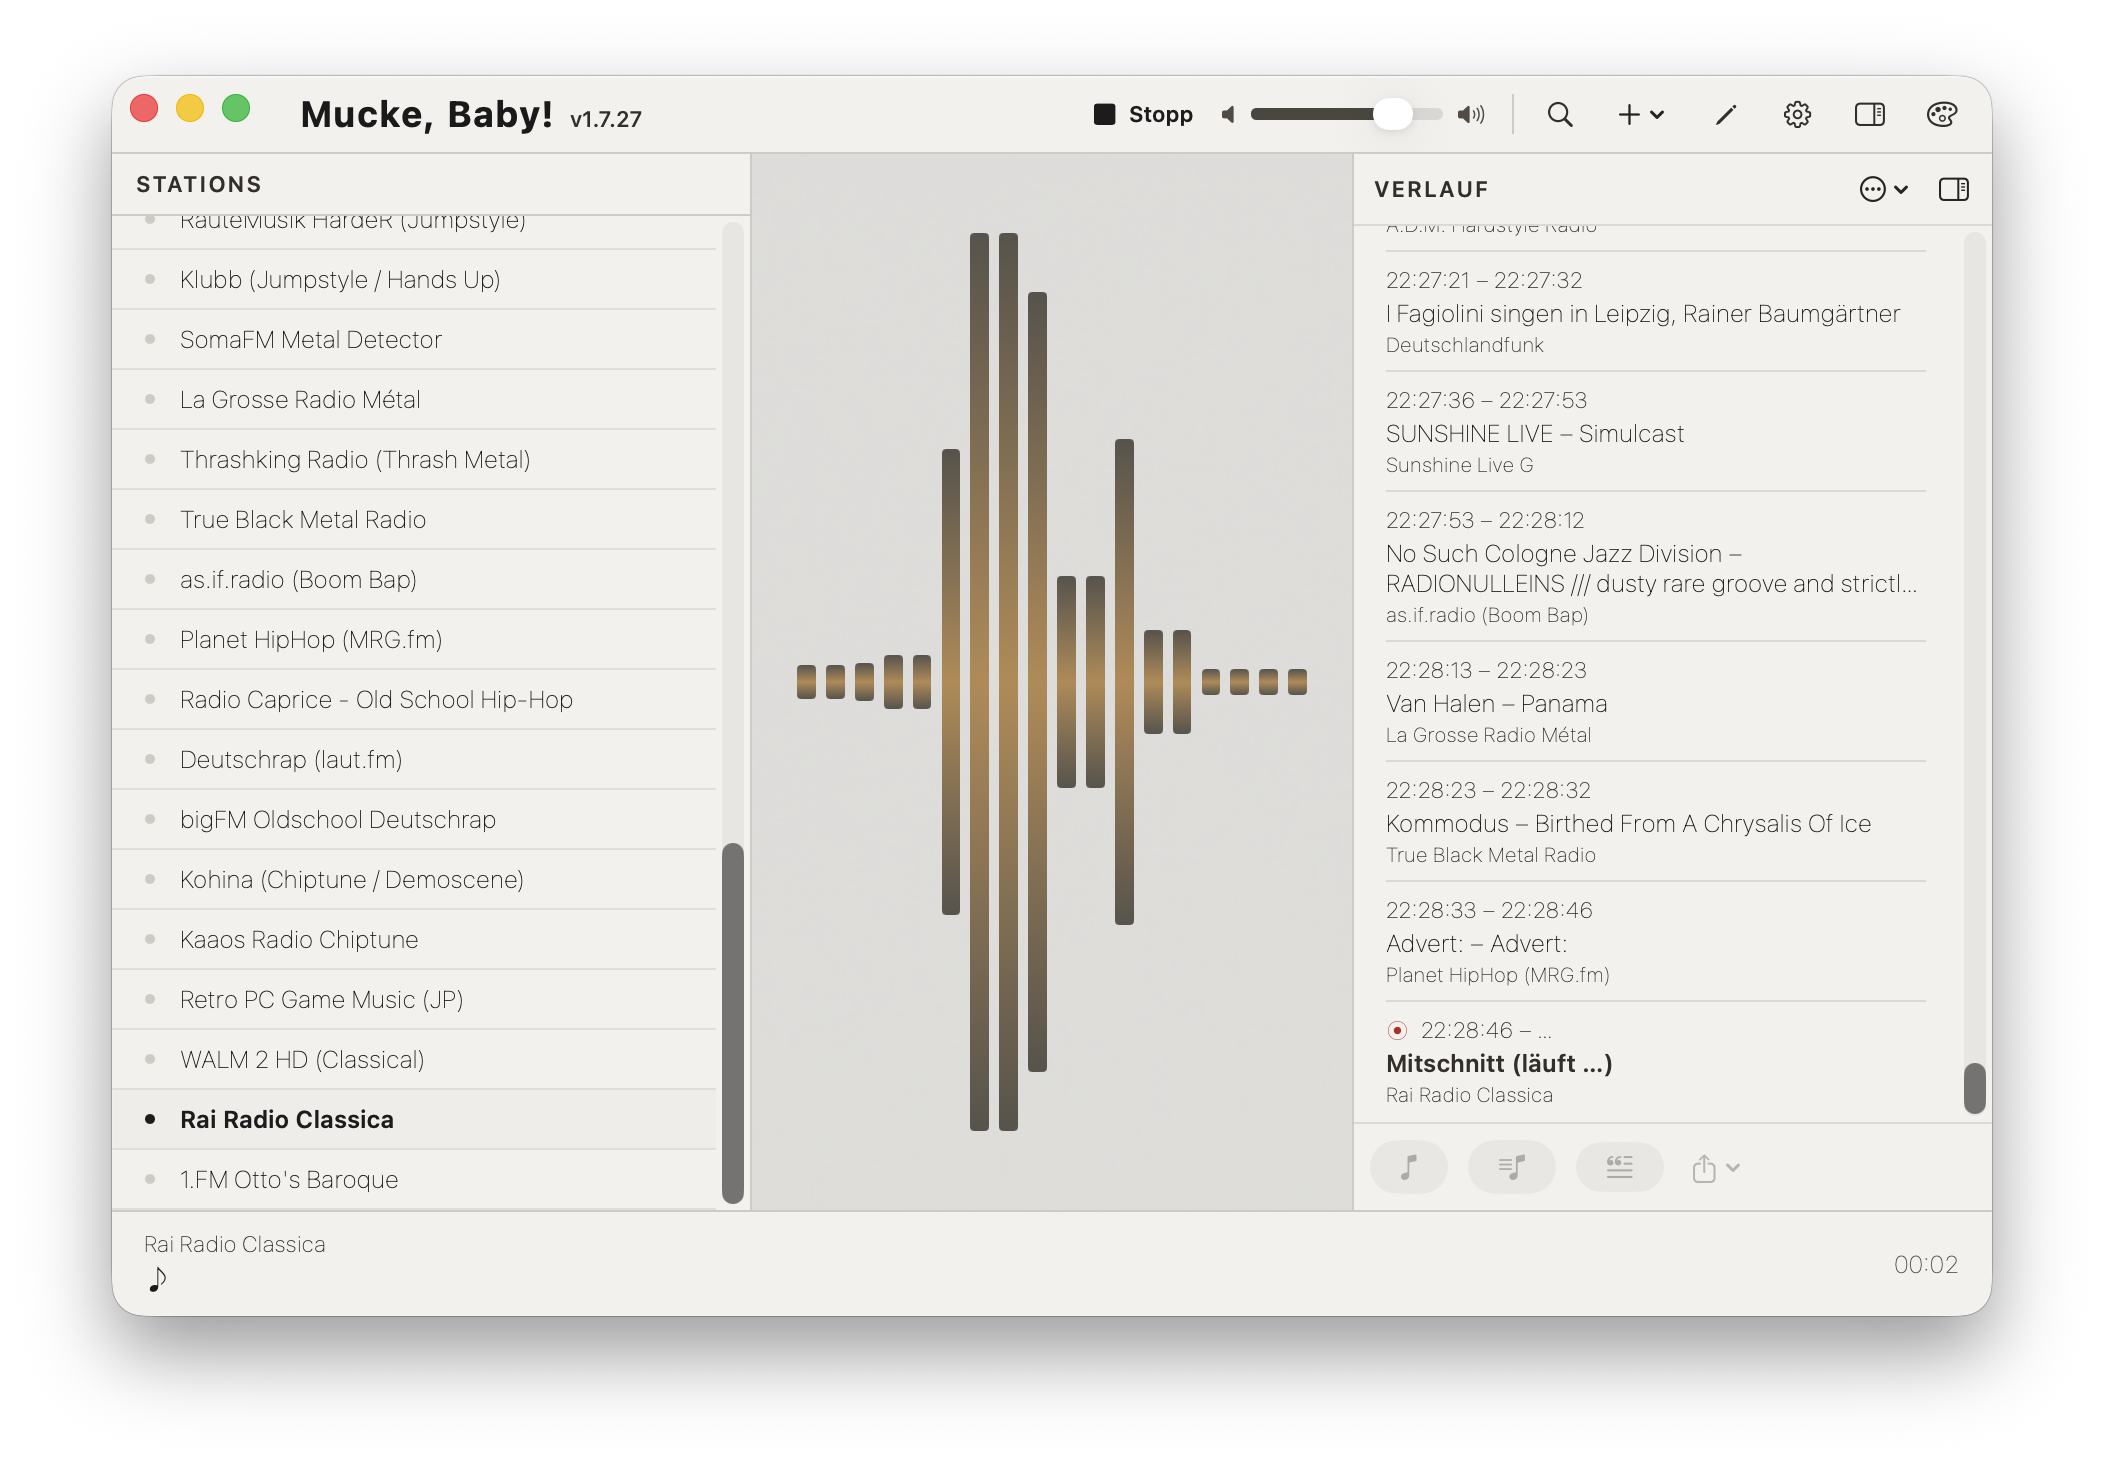
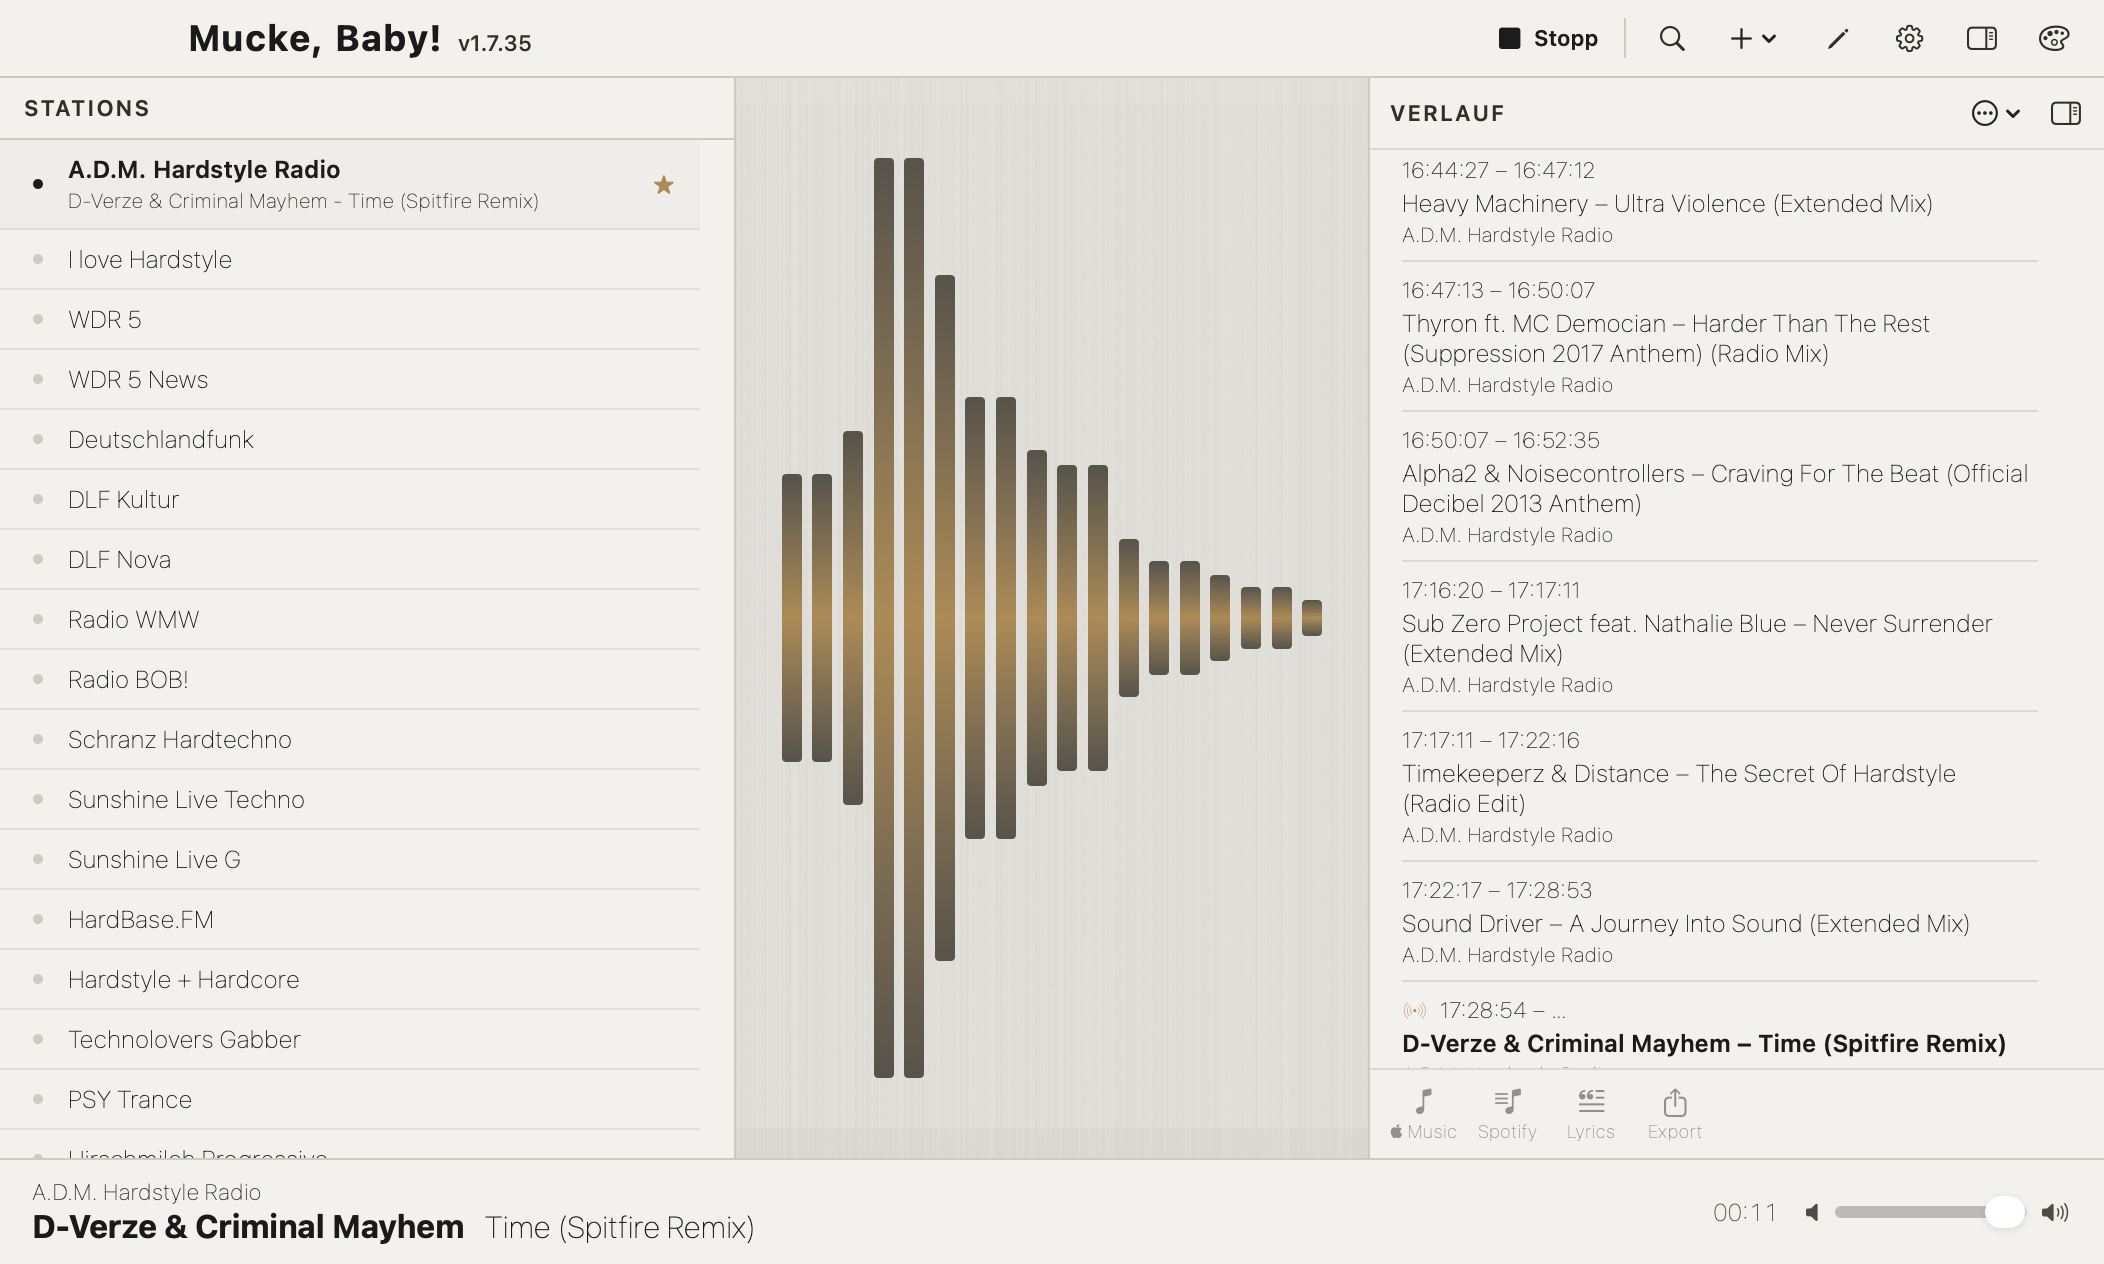
feat: Verlauf-Buttons mit Labels + theme-getoentes Highlight; README-Shots
- Verlauf-Aktionen (Apple Music / Spotify / Lyrics / Export) bekommen ein
  Textlabel unter dem Icon (Apple Music: Apple-Logo-Glyph). Alle vier unten
  buendig (feste Icon-Box gleicht SF-Symbol-Glyphenhoehen aus). Export war
  zuvor ein Menu (groesser/horizontal) -> jetzt Plain-Button + Dialog.
- Verlauf-Selektion nutzt die Theme-Selektionsfarbe statt des macOS-System-
  Highlights (passte oft nicht zum Theme); kein List(selection:) mehr, eigener
  listRowBackground + Tap-Selektion.
- README-Theme-Screenshots neu (Lautstaerke jetzt im Fuss).

v1.7.35 -> v1.7.36

diff --git a/Sources/HistoryPanel.swift b/Sources/HistoryPanel.swift
@@ -22,6 +22,7 @@ struct HistoryPanel: View {
     @State private var selection: SongEntry.ID?
     @State private var lyricsFor: SongEntry?
     @State private var exportMsg = ""
+    @State private var showExportChoice = false
 
     // Verlauf-Tinte: auf der hellen Pergament-Textur (retro) waere der dunkle
     // Theme-Text unlesbar -> dort eine dunkle Tinte erzwingen. Sonst der normale
@@ -29,6 +30,25 @@ struct HistoryPanel: View {
     private var historyInk: Color { theme.id == .retro ? Color(hex: "#2A2018") : theme.palette.textPrimary }
     private var historyInkDim: Color { theme.id == .retro ? Color(hex: "#5C4A38") : theme.palette.textSecondary }
     private var historyActionInk: Color { theme.id == .retro ? Color(hex: "#6B5432") : theme.palette.textSecondary }
+
+    /// Beschriftung eines Verlauf-Aktions-Buttons: Icon oben, kurzer Text darunter.
+    /// Vertikal, damit die vier Buttons auch in der schmalen Verlauf-Spalte nebeneinander passen.
+    @ViewBuilder
+    private func historyActionLabel(_ system: String, _ text: String) -> some View {
+        VStack(spacing: 2) {
+            // Feste Icon-Box: SF-Symbole haben unterschiedliche Glyphenhoehen (z.B. „text.quote"
+            // ist niedriger als „music.note") -> ohne fixe Hoehe sitzt der Text je Button anders.
+            // Gleich hohe Box + .bottom-Ausrichtung der Reihe -> alle Labels exakt unten buendig.
+            Image(systemName: system).font(.system(size: 13))
+                .frame(height: 15)
+            Text(text)
+                .themedFont(theme, .label, size: 9 * uiFontScale)
+                .lineLimit(1)
+        }
+        .foregroundStyle(historyActionInk)
+        .frame(minWidth: 38)
+        .contentShape(Rectangle())
+    }
 
     private func clean(_ comp: Calendar.Component, _ value: Int) {
         let cutoff = Calendar.current.date(byAdding: comp, value: -value, to: Date()) ?? Date()
@@ -83,12 +103,20 @@ struct HistoryPanel: View {
                 Spacer()
             } else {
                 ScrollViewReader { proxy in
-                    List(selection: $selection) {
+                    List {
                         ForEach(history.entries) { entry in
-                            SongRow(entry: entry).tag(entry.id).id(entry.id)
-                                // `.draggable` (statt `.onDrag`) vertraegt sich mit der
-                                // List-Klick-Selektion; der Export laeuft erst beim Drop
-                                // (off-main), blockiert also den Klick nicht.
+                            SongRow(entry: entry).id(entry.id)
+                                // Selektion manuell (kein `List(selection:)`): macOS faerbt das
+                                // eingebaute Inset-Highlight mit der SYSTEM-Highlight-Farbe, die
+                                // `.tint` nicht zuverlaessig ueberschreibt und oft nicht zum Theme
+                                // passt. Stattdessen eigener, theme-getoenter Zeilenhintergrund.
+                                .listRowBackground(
+                                    selection == entry.id ? theme.palette.selection : Color.clear
+                                )
+                                .contentShape(Rectangle())
+                                .onTapGesture { selection = entry.id }
+                                // `.draggable` (statt `.onDrag`) vertraegt sich mit dem Tap;
+                                // der Export laeuft erst beim Drop (off-main), blockiert den Klick nicht.
                                 .draggable(DraggableSong(entry: entry, recorder: player.recorder))
                         }
                     }
@@ -98,10 +126,6 @@ struct HistoryPanel: View {
                     // unlesbare Tinte (dunkle Schrift lag auf dem dunklen List-Default-Material,
                     // Creme nur als „Rahmen") und macht alle Themes konsistent.
                     .scrollContentBackground(.hidden)
-                    // Selektions-Highlight in der Theme-Farbe statt System-Akzent (Bug 2:
-                    // bei z.B. Black MIDI zog die List das orange System-Orange). schlicht:
-                    // accent == .accentColor → bleibt der native System-Akzent.
-                    .tint(theme.palette.accent)
                     .onChange(of: history.entries) { _, _ in
                         if let last = history.entries.last?.id {
                             withAnimation { proxy.scrollTo(last, anchor: .bottom) }
@@ -114,37 +138,40 @@ struct HistoryPanel: View {
             }
 
             Divider()
-            // Aktionen fuer den ausgewaehlten Titel (kompakt, icon-only).
-            HStack(spacing: 10) {
+            // Aktionen fuer den ausgewaehlten Titel — Icon UND Text (Daniel-Wunsch).
+            // Vertikal (Icon oben, Label unten) bleibt schmal genug fuer die enge Spalte.
+            // .bottom: alle Labels liegen unten buendig (Icon-Box gleicht Glyphenhoehen aus).
+            HStack(alignment: .bottom, spacing: 4) {
+                // Apple Music: das Apple-Logo-Zeichen (U+F8FF) statt des Wortes „Apple".
                 Button { if let e = selectedEntry { openInMusic(e) } } label: {
-                    Image(systemName: "music.note")
-                        .foregroundStyle(historyActionInk)
+                    historyActionLabel("music.note", "\u{F8FF} Music")
                 }.buttonStyle(.plain).help("In Apple Music suchen").disabled(!selectedIsLookup)
                 Button { if let e = selectedEntry { openInSpotify(e) } } label: {
-                    Image(systemName: "music.note.list")
-                        .foregroundStyle(historyActionInk)
+                    historyActionLabel("music.note.list", "Spotify")
                 }.buttonStyle(.plain).help("In Spotify / im Web suchen").disabled(!selectedIsLookup)
                 Button { lyricsFor = selectedEntry } label: {
-                    Image(systemName: "text.quote")
-                        .foregroundStyle(historyActionInk)
+                    historyActionLabel("text.quote", "Lyrics")
                 }.buttonStyle(.plain).help("Songtext anzeigen").disabled(!selectedIsLookup)
-                Menu {
+                // Plain-Button (statt Menu) — der borderlessButton-Menustil rendert sein Label
+                // groesser/horizontal und ignoriert die kleine Schrift; so saehe „Export" anders
+                // aus als die anderen drei. Die zwei Export-Varianten kommen in einen Dialog.
+                Button { showExportChoice = true } label: {
+                    historyActionLabel("square.and.arrow.up", "Export")
+                }
+                .buttonStyle(.plain)
+                .help("Song aus Aufnahme exportieren (oder per Drag&Drop aus der Liste ziehen)")
+                .confirmationDialog("Song exportieren", isPresented: $showExportChoice, titleVisibility: .visible) {
                     Button("Als Datei (harter Schnitt) …") { exportToFile(.hardCut) }
                     Button("Als Datei (ein-/ausgefadet) …") { exportToFile(.faded) }
-                } label: {
-                    Image(systemName: "square.and.arrow.up")
-                        .foregroundStyle(historyActionInk)
+                    Button("Abbrechen", role: .cancel) {}
                 }
-                .menuStyle(.borderlessButton).fixedSize()
-                .help("Song aus Aufnahme exportieren (oder per Drag&Drop aus der Liste ziehen)")
-                Spacer()
+                Spacer(minLength: 0)
                 if !exportMsg.isEmpty {
                     Text(exportMsg)
                         .themedFont(theme, .label, size: 10 * uiFontScale)
                         .foregroundColor(theme.palette.textSecondary).lineLimit(1)
                 }
             }
-            .controlSize(.large)
             .disabled(selectedEntry == nil)
             .padding(8)
         }

diff --git a/Sources/Models.swift b/Sources/Models.swift
@@ -55,7 +55,7 @@ struct SeedStation: Decodable {
 
 // App-Version an einer Stelle. Wird auch in der Info.plist gespiegelt.
 enum AppInfo {
-    static let version = "1.7.35"
+    static let version = "1.7.36"
 }
 
 /// Verschiebt einmalig den alten Daten-Ordner „MacRadio" auf den neuen Namen „MuckeBaby"

diff --git a/CHANGELOG.md b/CHANGELOG.md
@@ -5,6 +5,12 @@ The format is based on [Keep a Changelog](https://keepachangelog.com/).
 
 ## [Unreleased]
 
+## [1.7.36] - 2026-06-10
+### Changed
+- History action buttons (Apple Music, Spotify, Lyrics, Export) now show a text label beneath the icon; the Apple Music button uses the Apple logo glyph. All four labels are bottom-aligned (a fixed icon box evens out differing SF Symbol glyph heights).
+- History selection highlight now uses the theme's own selection color instead of the macOS system highlight color, which could clash with a theme. The list no longer relies on the built-in (system-tinted) selection.
+- Refreshed the README theme screenshots to reflect the current UI (volume control moved into the footer).
+
 ## [1.7.35] - 2026-06-10
 ### Changed
 - Volume control moved from the header into the footer, next to the playback time (all themes). In the header it overlapped the macOS title region (`.fullSizeContentView`), where the native window-drag intercepts the mouse-down before the control receives it — so the Retro/GuitarAmp knob dragged the window instead of turning. The footer is outside that region, so a plain drag gesture works reliably.
